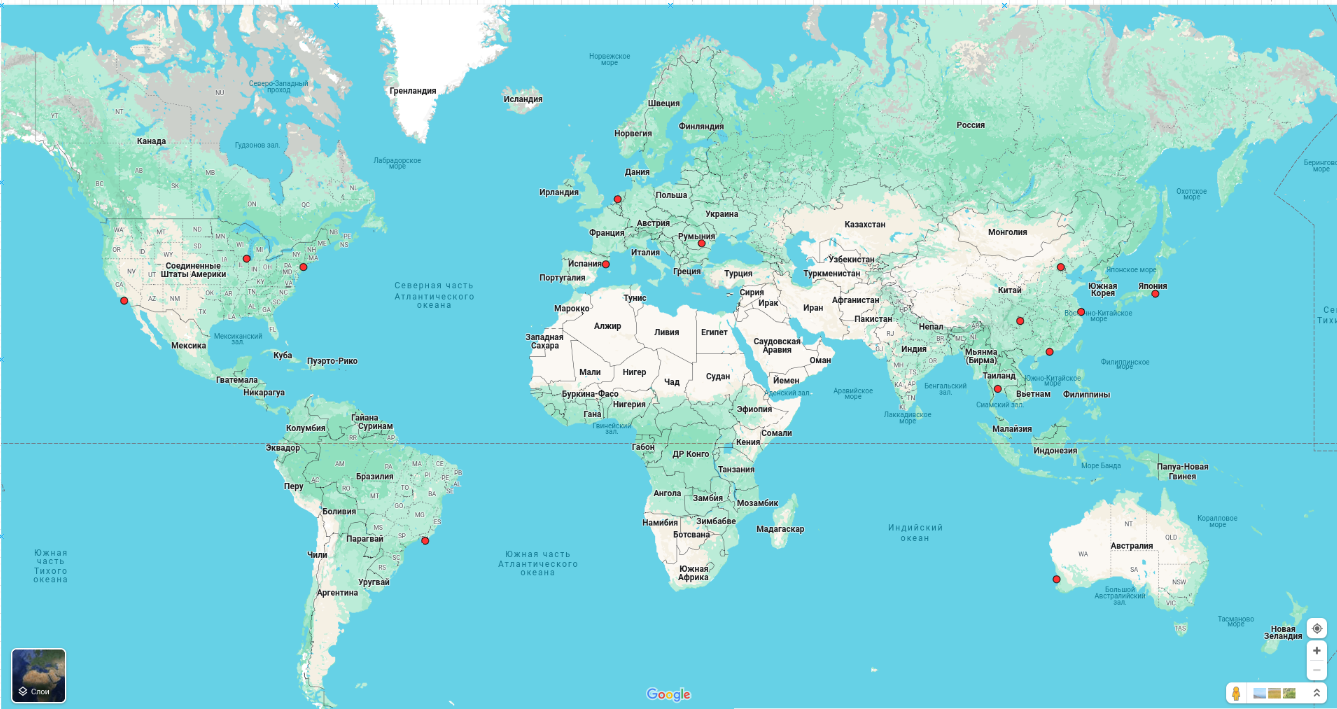
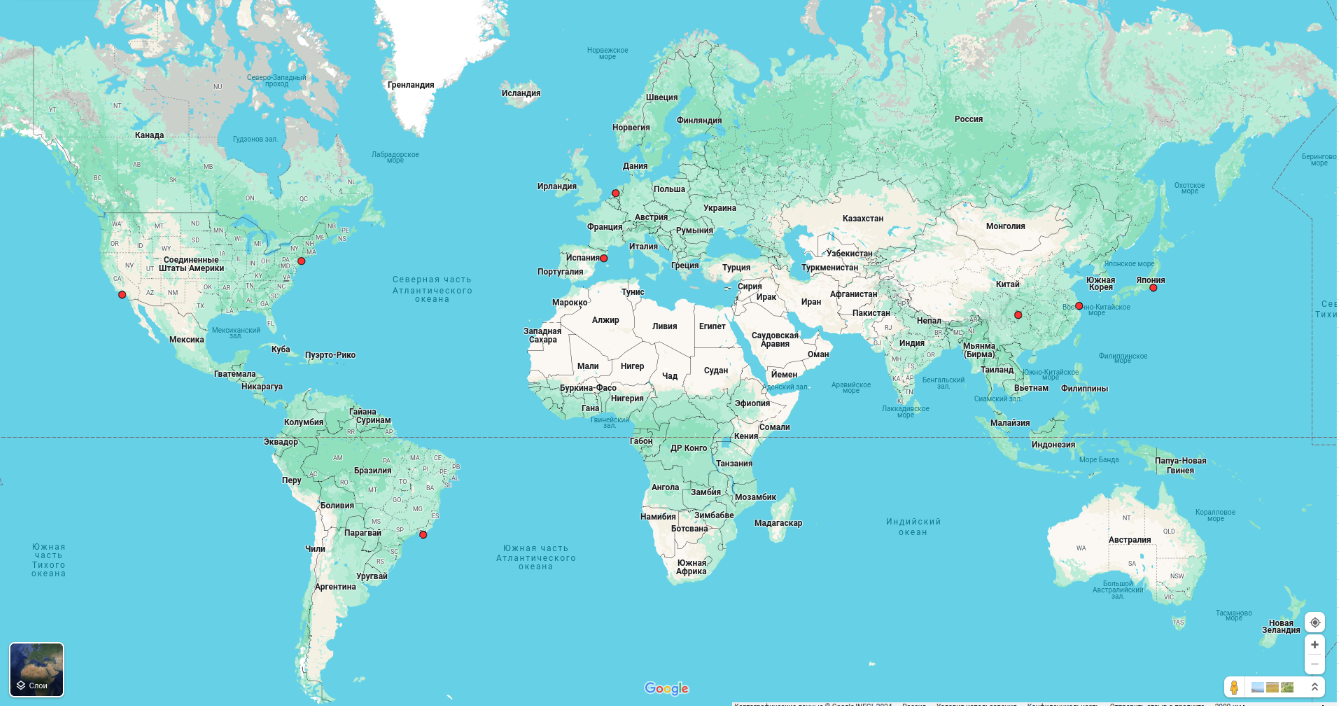
Поменял распределение ДЦ после тщательного изучения информации

diff --git a/README.md b/README.md
@@ -206,51 +206,50 @@ RPS на скачивание игры равен 13, а значит кажду
 
 Из расчёта нагрузки, известно, что скачивание занимает около 94% трафика всего изучаемого функционала.
 
-В Китае Steam имеет отдельный филиал, к тому же Китай находится в центре Восточной Азии. Китай позволяет другим странам скачивать данные с их сайтов, но не разрешает своим гражданам пользоваться серверами других стран. Поэтому было решено разместить 4 датацентра в следующих городах Китая:
+В Китае Steam имеет отдельный филиал, к тому же Китай находится в центре Восточной Азии. Китай позволяет другим странам скачивать данные с их сайтов, но не разрешает своим гражданам пользоваться серверами других стран. Поэтому было решено разместить 2 датацентра в следующих городах Китая:
 
 - Шанхай
-- Гонконг
-- Пекин
 - Чунцин
 
-Дополнительно расположим сервера в:
+Дополнительно расположим ДЦ в Токио, чтобы в случае блокировки Китаем не потерять азиатский рынок:
 
 - Токио
-- Бангкок
 
 В Северной Америке почти весь трафик идёт из США, поэтому расположим датацентры в следующих городах:
 
 - Нью-Йорк
 - Лос-Анджелес
-- Чикаго
 
 Европа:
 
 - Барселона
-- Бухарест
 - Аместердам
 
 Южная Америка:
 
 - Рио-де-Жанейро
 
-Австралия и Океания:
-
-- Перт
-
 Итого выходит следующая карта расположения датацентроов:
 
 ![global datacenters map](img/globalDownloadDC.png)
 
-Оставшийся трафик занимает лишь 5% от основного, однако требует низкой задержки. Поэтому выделим датацентры в следующих городах:
+Датацентры на скачивание должны иметь высокую пропускную способность и большой объём хранилищ, т.к. не критичны к задержке и не получают большого количества запросов на обработку.
+
+Оставшийся трафик занимает лишь 5% от основного, и суммарно равен около 70 Гбит/с, однако требует низкой задержки и получают большое количество RPS. Для распределения нагрузки сделаем большее количество ДЦ, с более высоким ЦПУ для высокоскоростной обработки. Поэтому выделим датацентры в следующих городах:
 
 - Шанхай
+- Пекин
+- Чунцин
+- Токио
 - Бангкок
 - Нью-Йорк
+- Чикаго
 - Лос-Анджелес
 - Барселона
+- Амстердам
 - Стокгольм
 - Рио-де-Жанейро
+- Сидней
 
 Сами датацентры можно сделать меньшей памяти, но с большей вычислительной мощностью, чтобы обрабатывать запросы параллельно. Карта датацентров представлена ниже.
 ![Карта датацентров остального трафика](img/globalRemainDC.png)
